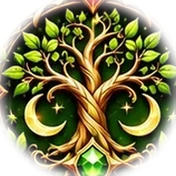
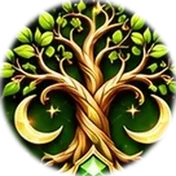
fix(class-emblems): remove residual decorative rings from all 13 inner motifs

diff --git a/frontend/scripts/build_class_inner_no_rims.py b/frontend/scripts/build_class_inner_no_rims.py
@@ -1,0 +1,49 @@
+#!/usr/bin/env python3
+"""Build the class *inner-symbol* WebPs, without their original circular rims.
+
+The single approved user Class master (1024x1536) already contains the complete
+gold circle and its ruby jewels. The 512px 'classi-hd' sources are full
+medallions, not transparent icon-only images. Cropping too wide (previous
+source radius 168) leaked a second engraved circle onto the master.
+
+Only rebuild the 13 176px internal assets. Never paint, cover, mask or alter
+the approved master or the card data, dice, headings or DOM/CSS positions.
+Requires Pillow solely when regenerating the image assets offline.
+"""
+from pathlib import Path
+from PIL import Image, ImageChops, ImageDraw, ImageFilter
+
+ROOT = Path(__file__).resolve().parents[1] / "public" / "emblemi"
+SOURCE = ROOT / "classi-hd"
+DEST = ROOT / "classi-inner"
+NAMES = (
+    "barbaro bardo chierico druido guerriero monaco paladino ranger ladro "
+    "stregone warlock mago artefice"
+).split()
+SOURCE_RADIUS = 145  # original oversized crop at 168 leaked a second gold ring
+OUTPUT_SIZE = 176
+SOFT_EDGE_PX = 2
+
+def main():
+    DEST.mkdir(parents=True, exist_ok=True)
+    alpha = Image.new("L", (OUTPUT_SIZE, OUTPUT_SIZE), 0)
+    ImageDraw.Draw(alpha).ellipse(
+        (1, 1, OUTPUT_SIZE - 2, OUTPUT_SIZE - 2), fill=255
+    )
+    alpha = alpha.filter(ImageFilter.GaussianBlur(SOFT_EDGE_PX))
+
+    for name in NAMES:
+        src = Image.open(SOURCE / (name + ".webp")).convert("RGBA")
+        if src.size != (512, 512):
+            raise ValueError(f"Expected 512px original for {name}: {src.size}")
+        src = src.crop((
+            256 - SOURCE_RADIUS, 256 - SOURCE_RADIUS,
+            256 + SOURCE_RADIUS, 256 + SOURCE_RADIUS,
+        )).resize((OUTPUT_SIZE, OUTPUT_SIZE), Image.Resampling.LANCZOS)
+        src.putalpha(ImageChops.multiply(src.getchannel("A"), alpha))
+        dest = DEST / (name + ".webp")
+        src.save(dest, "WEBP", quality=93, method=6)
+        print(name, dest.stat().st_size)
+
+if __name__ == "__main__":
+    main()
